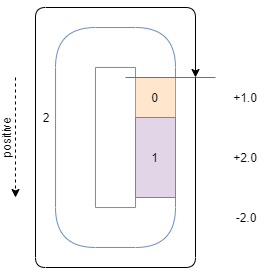
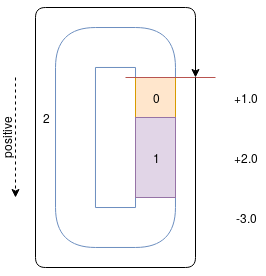
Adding documentation, refining stackup source.

diff --git a/tol_stack/stack.py b/tol_stack/stack.py
@@ -123,14 +123,13 @@ class StackPath:
         if self._path_type == 'circuit':
             ax.set_xlabel('sum of gaps between parts')
 
-            interference = [v for v in self._stackups if v < 0]
+            interference = [v for v in self._stackups if v > 0]
             if len(interference) > 0:
                 interference_percent = 100.0 * len(interference) / len(self._stackups)
 
                 x0, x1 = ax.get_xlim()
                 y0, y1 = ax.get_ylim()
-                ax.axvspan(x0, 0.0, color='red', zorder=-2, alpha=0.1)
-                ax.axvline(x0, color='red', zorder=-1)
+                ax.axvspan(0.0, x1, color='red', zorder=-2, alpha=0.1)
                 ax.axvline(0.0, color='red', zorder=-1)
                 ax.text(x=x0*0.9, y=((y1-y0) * 0.9), s=f'interference on {interference_percent:.02f}%', color='red')
 
@@ -178,26 +177,27 @@ if __name__ == '__main__':
 
     part1 = Part(
         name='part1',
-        nominal_value=1.95,
+        nominal_value=2.0,
         upper_tolerance=0.05,
         size=size
     )
 
     part2 = Part(
         name='part2',
-        nominal_value=1.0,
-        upper_tolerance=0.1,
-        size=size,
-        limits=(0.98, 1.02)
+        nominal_value=-3.05,
+        upper_tolerance=0.05,
+        size=size
     )
 
-    sp = StackPath(path_type='max', max_value=4.0)
+    sp = StackPath()
     sp.add_part(part0)
     sp.add_part(part1)
     sp.add_part(part2)
 
     sp.analyze()
 
+    part0.show_dist(density=True, bins=101)
+    part1.show_dist(density=True, bins=101)
     part2.show_dist(density=True, bins=101)
 
     sp.show_dist(bins=31)

diff --git a/docs/source/usage.rst b/docs/source/usage.rst
@@ -1,0 +1,54 @@
+Usage
+============
+
+Tolerance Stackup Types
+-----------------------
+
+There are a few different tolerance stackup types that are currently supported:
+
+ 1. Circuit Stackup - A stackup that will generally add up to "0" or more.
+ 2. Max Height - A stackup that, when complete, will not exceed some number.
+ 3. Min Height = A stackup that, when complete, will not be under some number.
+
+Circuit Stackup
+---------------
+
+The circuit stackup is the default type of tolerance stackup and will likely be familiar to most
+readers who have experience with tolerance stackups.  An assembly such as the below C clamp
+represents a circuit.  One chooses a reference and moves around the stack path, calculating tolerance
+at each step in order to reach the beginning again.  All of this is automatically done for the user,
+but the user must set up the correct positive direction and values.
+
+.. image::
+   images/tolerance-circuit-0.png
+
+First, we number the diagram so that we may have some sort of clean reference to the part.
+
+.. image::
+   images/tolerance-circuit-1.png
+
+Next, we choose a reference (the red line) and define the positive direction.  If a move is in the
+positive direction, we will add the value and if it is in the negative direction, we will subtract
+the value.
+
+.. image::
+   images/tolerance-circuit-2.png
+
+Starting at the reference, walk around one step at a time adding the value and tolerance to the
+``Part``.  In these parts, part 0 has a length of 1.0, part 1 has a length of 2.0, and part 2 has
+a length of -3.0.
+
+.. image::
+   images/tolerance-circuit-3.png
+
+.. image::
+   images/tolerance-circuit-4.png
+
+.. image::
+   images/tolerance-circuit-5.png
+
+Once the user has gotten to this point in the tolerance stack using ``tol-stack``, the distribution and
+the apparent interference should be apparent.
+
+.. image::
+   images/screenshot-circuit.png

diff --git a/docs/source/index.rst b/docs/source/index.rst
@@ -12,6 +12,8 @@ Tolerance Analysis for Busy People
    :maxdepth: 2
    :caption: Contents:
 
+   installation.rst
+   usage.rst
 
 
 Indices and tables

diff --git a/docs/source/installation.rst b/docs/source/installation.rst
@@ -1,0 +1,9 @@
+Installation
+============
+
+Installation
+------------
+
+From python command line::
+
+  python setup.py install
